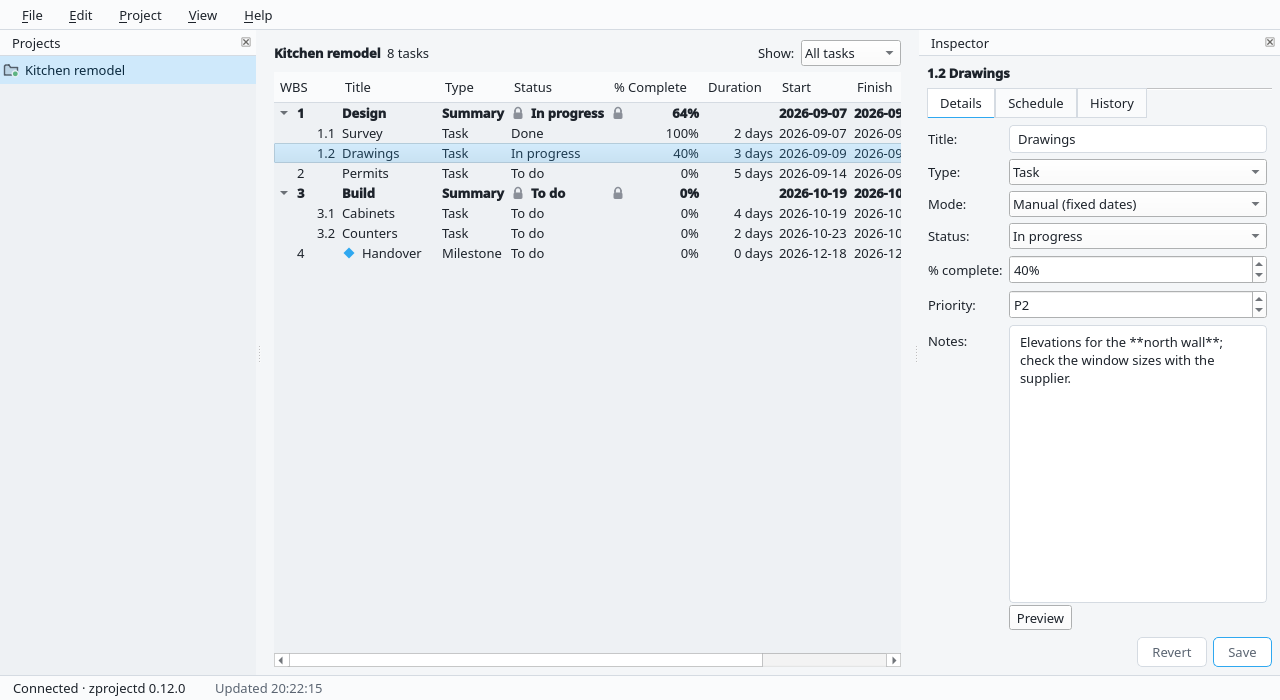
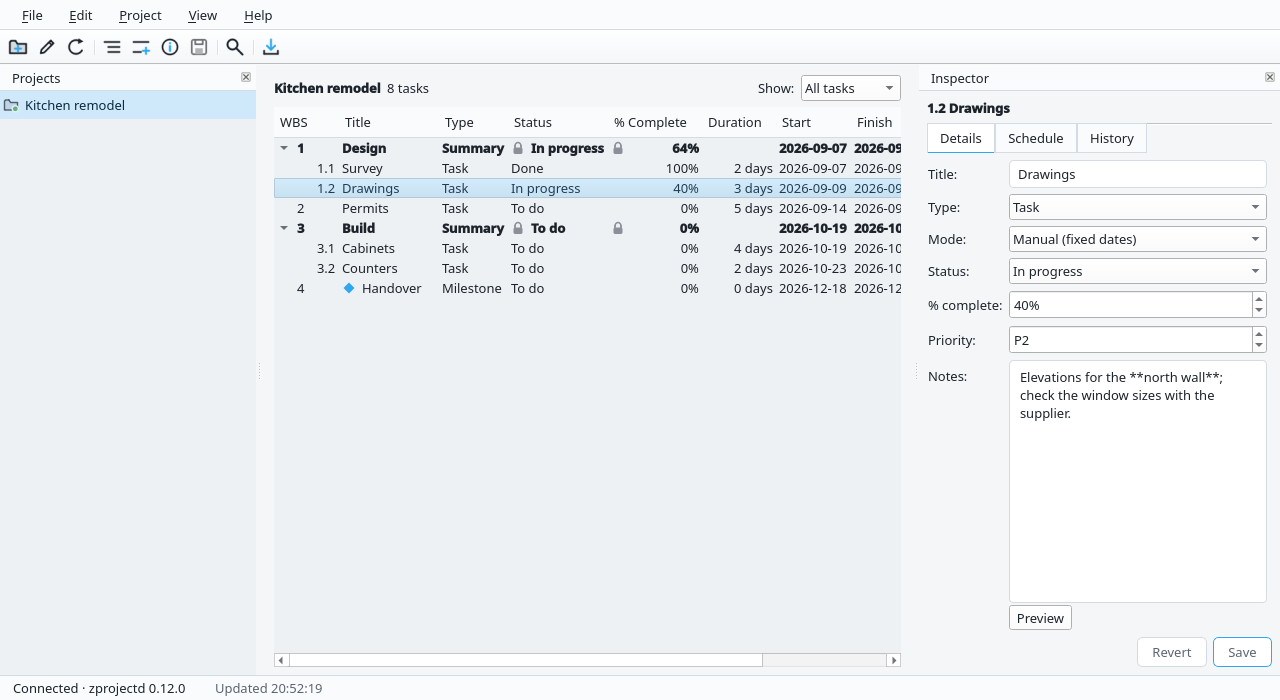
Desktop: menu bar always in the window on Linux, main toolbar
Root cause (vertex: Pop!_OS 24.04, GNOME Shell 46, Qt 6.4.2): a global
menu service (Fildem) owns com.canonical.AppMenu.Registrar on the session
bus, so Qt exported the menus over D-Bus and hid the in-window QMenuBar;
the service showed nothing, so the menus were unreachable.

- Linux: AA_DontUseNativeMenuBar in main.cpp and setNativeMenuBar(false);
  macOS keeps the native menu bar.
- Main toolbar with the app's icons (New Project, Edit Project Details,
  Refresh, Outline, Insert Task, Task Details, Save Task, Find, Check for
  Updates); tooltips name the shortcut.
- View → Show Toolbar, saved as [view] toolbar in zproject.ini.
- Tests, screenshots, help, CHANGELOG, README, SPEC §8.1/§8.4.

diff --git a/app/MainWindow.cpp b/app/MainWindow.cpp
@@ -11,6 +11,7 @@
 #include <QPainter>
 #include <QPixmap>
 #include <QTableWidget>
+#include <QToolBar>
 #include <QToolButton>
 #include <QSpinBox>
 #include <QDockWidget>
@@ -172,6 +173,7 @@ MainWindow::MainWindow(Options options, QWidget* parent) : QMainWindow(parent), 
     updateEditActions();
   });
   buildMenus();
+  buildToolBar();
   buildStatusBar();
   applyAppearance();
 #if QT_VERSION >= QT_VERSION_CHECK(6, 5, 0)
@@ -356,6 +358,12 @@ void MainWindow::buildMenus() {
     return a;
   };
 
+#ifndef Q_OS_MACOS
+  // Always in the window on Linux (main.cpp sets AA_DontUseNativeMenuBar
+  // too): a global-menu service must not take the menus away. macOS keeps
+  // its native menu bar.
+  menuBar()->setNativeMenuBar(false);
+#endif
   QMenu* file = menuBar()->addMenu(tr("&File"));
   add(file, QStringLiteral("actionNewProject"), tr("&New Project…"), [this] { projectActions_->newProject(); });
   file->addSeparator();
@@ -444,6 +452,8 @@ void MainWindow::buildMenus() {
   add(view, QStringLiteral("actionZoomOut"), tr("Zoom &Out"), [this] { zoomOut(); });
   add(view, QStringLiteral("actionZoomReset"), tr("&Actual Size"), [this] { zoomReset(); });
   view->addSeparator();
+  auto* bar = add(view, QStringLiteral("actionToggleToolbar"), tr("Show &Toolbar"), [this](bool on) { setToolbarShown(on); });
+  bar->setCheckable(true);
   auto* side = add(view, QStringLiteral("actionToggleSidebar"), tr("&Sidebar"),
                    [this](bool on) { sidebarDock_->setVisible(on); });
   side->setCheckable(true);
@@ -478,6 +488,55 @@ void MainWindow::buildMenus() {
   updates->setMenuRole(QAction::ApplicationSpecificRole);
   auto* about = add(help, QStringLiteral("actionAbout"), tr("&About zproject"), [this] { showAbout(); });
   about->setMenuRole(QAction::AboutRole);
+}
+
+// The main toolbar (SPEC.md §8.1): the common actions, with the app's icons.
+// View → Show Toolbar toggles it; the choice is kept in zproject.ini.
+void MainWindow::buildToolBar() {
+  toolBar_ = new QToolBar(tr("Toolbar"), this);
+  toolBar_->setObjectName(QStringLiteral("mainToolBar"));
+  toolBar_->setMovable(false);
+  toolBar_->setFloatable(false);
+  toolBar_->setIconSize(QSize(20, 20));
+  toolBar_->setToolButtonStyle(Qt::ToolButtonIconOnly);
+  // Our View menu item is the one toggle (no right-click menu that would
+  // hide it without saving the choice).
+  toolBar_->setContextMenuPolicy(Qt::PreventContextMenu);
+  toolBar_->toggleViewAction()->setVisible(false);
+  const QList<QList<const char*>> groups = {
+      {"actionNewProject", "actionEditProject", "actionRefresh"},
+      {"actionOutline", "actionInsertTask", "actionEditTask", "actionSaveTask"},
+      {"actionFind"},
+      {"actionCheckUpdates"},
+  };
+  for (const auto& group : groups) {
+    if (!toolBar_->actions().isEmpty()) toolBar_->addSeparator();
+    for (const char* name : group) {
+      QAction* a = action(QString::fromLatin1(name));
+      if (a == nullptr) continue;
+      // "&Edit Project Details…" reads "Edit Project Details (Ctrl+E)".
+      QString tip = a->text().remove(QLatin1Char('&')).remove(QChar(0x2026));
+      if (!a->shortcut().isEmpty()) tip += QStringLiteral(" (%1)").arg(a->shortcut().toString(QKeySequence::NativeText));
+      a->setToolTip(tip);
+      toolBar_->addAction(a);
+      if (QWidget* button = toolBar_->widgetForAction(a)) {
+        button->setObjectName(QStringLiteral("toolbar-") + QString::fromLatin1(name));
+        button->setAccessibleName(tip);
+      }
+    }
+  }
+  addToolBar(Qt::TopToolBarArea, toolBar_);
+  toolBar_->setVisible(settings_.showToolbar);
+  QAction* show = action(QStringLiteral("actionToggleToolbar"));
+  show->setChecked(settings_.showToolbar);
+}
+
+void MainWindow::setToolbarShown(bool on) {
+  if (toolBar_ != nullptr) toolBar_->setVisible(on);
+  if (QAction* a = action(QStringLiteral("actionToggleToolbar"))) a->setChecked(on);
+  if (settings_.showToolbar == on) return;
+  settings_.showToolbar = on;
+  saveSettings();
 }
 
 void MainWindow::buildStatusBar() {
@@ -521,6 +580,7 @@ void MainWindow::applyIcons(const ThemeColors& c) {
       {"actionOutline", G::Outline},           {"actionInsertTask", G::InsertTask},
       {"actionEditTask", G::TaskDetails},      {"actionSaveTask", G::SaveTask},
       {"actionDeleteTask", G::DeleteTask},     {"actionFind", G::Find},
+      {"actionCheckUpdates", G::CheckUpdates},
   };
   for (const auto& [name, g] : glyphs) {
     if (QAction* a = action(QString::fromLatin1(name))) a->setIcon(Icons::glyph(g, c));

diff --git a/tests/tst_appshell.cpp b/tests/tst_appshell.cpp
@@ -30,6 +30,7 @@
 #include <QTemporaryDir>
 #include <QTest>
 #include <QTextBrowser>
+#include <QToolBar>
 
 #include <sys/stat.h>
 
@@ -374,6 +375,71 @@ class TestAppShell : public QObject {
     QTest::keyClick(&w, Qt::Key_B, Qt::ControlModifier);
     QVERIFY(w.action(QStringLiteral("actionToggleSidebar"))->isChecked());
     w.close();
+  }
+
+  void menuBarAndToolbar() {
+    {
+      MainWindow w(options(false));
+      w.resize(1100, 640);
+      w.show();
+      QVERIFY(QTest::qWaitForWindowExposed(&w));
+#ifndef Q_OS_MACOS
+      // In the window on Linux, whatever global-menu service the session has.
+      QVERIFY(!w.menuBar()->isNativeMenuBar());
+      QVERIFY(w.menuBar()->isVisible());
+      QVERIFY(w.menuBar()->height() > 0);
+#endif
+      // Help → Check for Updates and View → Outline are in the menus.
+      auto inMenu = [&w](const QString& menu, const QString& name) {
+        for (QAction* m : w.menuBar()->actions()) {
+          if (m->text() == menu && m->menu() != nullptr) return m->menu()->actions().contains(w.action(name));
+        }
+        return false;
+      };
+      QVERIFY(inMenu(QStringLiteral("&Help"), QStringLiteral("actionCheckUpdates")));
+      QVERIFY(inMenu(QStringLiteral("&View"), QStringLiteral("actionOutline")));
+      QVERIFY(inMenu(QStringLiteral("&View"), QStringLiteral("actionToggleToolbar")));
+      // The toolbar: the common actions, each with an icon and a tooltip.
+      QToolBar* bar = w.toolBar();
+      QVERIFY(bar);
+      QVERIFY(bar->isVisible());
+      QStringList names;
+      for (QAction* a : bar->actions()) {
+        if (a->isSeparator()) continue;
+        names << a->objectName();
+        QVERIFY2(!a->icon().isNull(), qPrintable(a->objectName()));
+        QVERIFY2(!a->toolTip().contains(QLatin1Char('&')), qPrintable(a->toolTip()));
+      }
+      QCOMPARE(names, (QStringList{QStringLiteral("actionNewProject"), QStringLiteral("actionEditProject"),
+                                   QStringLiteral("actionRefresh"), QStringLiteral("actionOutline"),
+                                   QStringLiteral("actionInsertTask"), QStringLiteral("actionEditTask"),
+                                   QStringLiteral("actionSaveTask"), QStringLiteral("actionFind"),
+                                   QStringLiteral("actionCheckUpdates")}));
+      QCOMPARE(w.action(QStringLiteral("actionEditProject"))->toolTip(),
+               QStringLiteral("Edit Project Details (%1)")
+                   .arg(QKeySequence(QStringLiteral("Ctrl+E")).toString(QKeySequence::NativeText)));
+      QVERIFY(bar->contextMenuPolicy() == Qt::PreventContextMenu);
+      // View → Show Toolbar hides it and remembers.
+      QAction* toggle = w.action(QStringLiteral("actionToggleToolbar"));
+      QVERIFY(toggle->isCheckable());
+      QVERIFY(toggle->isChecked());
+      toggle->trigger();
+      QVERIFY(!bar->isVisible());
+      QVERIFY(!toggle->isChecked());
+      QVERIFY(!client::loadDesktopSettings(options(false).paths).showToolbar);
+      w.close();
+    }
+    {
+      MainWindow w(options(false));
+      w.show();
+      QVERIFY(QTest::qWaitForWindowExposed(&w));
+      QVERIFY(!w.toolBar()->isVisible());
+      QVERIFY(!w.action(QStringLiteral("actionToggleToolbar"))->isChecked());
+      w.action(QStringLiteral("actionToggleToolbar"))->trigger();
+      QVERIFY(w.toolBar()->isVisible());
+      QVERIFY(client::loadDesktopSettings(options(false).paths).showToolbar);
+      w.close();
+    }
   }
 
   void menusAndShortcutTable() {

diff --git a/app/MainWindow.hpp b/app/MainWindow.hpp
@@ -26,6 +26,7 @@ class QMessageBox;
 class QPushButton;
 class QStackedWidget;
 class QTableWidget;
+class QToolBar;
 class QToolButton;
 
 namespace zproject::app {
@@ -115,6 +116,8 @@ class MainWindow : public QMainWindow {
   // Projects), the details page and the editing actions.
   QTableWidget* projectTable() const { return projectTable_; }
   QToolButton* showClosedButton() const { return showClosed_; }
+  QToolBar* toolBar() const { return toolBar_; }
+  void setToolbarShown(bool on);
   QStackedWidget* mainStack() const { return stack_; }
   QLabel* projectDetails() const { return projectDetails_; }
   ProjectActions* projectActions() const { return projectActions_; }
@@ -140,6 +143,7 @@ class MainWindow : public QMainWindow {
 
  private:
   void buildMenus();
+  void buildToolBar();
   void buildCentral();
   void buildDocks();
   void buildStatusBar();
@@ -184,6 +188,7 @@ class MainWindow : public QMainWindow {
   QLabel* projectSummary_ = nullptr;
   QListWidget* projects_ = nullptr;
   QToolButton* showClosed_ = nullptr;
+  QToolBar* toolBar_ = nullptr;
   QTableWidget* projectTable_ = nullptr;
   QLabel* projectDetails_ = nullptr;
   QPushButton* editButton_ = nullptr;

diff --git a/client/DesktopSettings.cpp b/client/DesktopSettings.cpp
@@ -37,6 +37,7 @@ DesktopSettings loadDesktopSettings(const DesktopPaths& paths) {
   s.zoomPercent = ini.value(QStringLiteral("appearance/zoomPercent"), s.zoomPercent).toInt();
   s.updateCheckDaily = ini.value(QStringLiteral("updates/checkDaily"), s.updateCheckDaily).toBool();
   s.updateAsked = ini.value(QStringLiteral("updates/asked"), s.updateAsked).toBool();
+  s.showToolbar = ini.value(QStringLiteral("view/toolbar"), s.showToolbar).toBool();
   return s;
 }
 
@@ -56,6 +57,7 @@ Status saveDesktopSettings(const DesktopPaths& paths, const DesktopSettings& set
     ini.setValue(QStringLiteral("appearance/zoomPercent"), settings.zoomPercent);
     ini.setValue(QStringLiteral("updates/checkDaily"), settings.updateCheckDaily);
     ini.setValue(QStringLiteral("updates/asked"), settings.updateAsked);
+    ini.setValue(QStringLiteral("view/toolbar"), settings.showToolbar);
     ini.sync();
     if (ini.status() != QSettings::NoError) {
       return Error{QStringLiteral("io"), QStringLiteral("cannot write %1").arg(paths.settingsFile), {}};

diff --git a/app/Icons.cpp b/app/Icons.cpp
@@ -169,6 +169,18 @@ QIcon glyph(Glyph g, const ThemeColors& c) {
         p.setBrush(accent);
         p.drawRect(QRectF(5, 9, 6, 4.8));
         break;
+      case Glyph::CheckUpdates: {
+        p.setPen(pen(fg));
+        p.setBrush(Qt::NoBrush);
+        p.drawLine(QPointF(2.5, 11), QPointF(2.5, 13.5));
+        p.drawLine(QPointF(2.5, 13.5), QPointF(13.5, 13.5));
+        p.drawLine(QPointF(13.5, 13.5), QPointF(13.5, 11));
+        p.setPen(pen(accent, 1.6));
+        p.drawLine(QPointF(8, 2), QPointF(8, 10));
+        p.drawLine(QPointF(4.8, 7), QPointF(8, 10.2));
+        p.drawLine(QPointF(11.2, 7), QPointF(8, 10.2));
+        break;
+      }
       case Glyph::Find:
         p.setPen(pen(fg, 1.6));
         p.setBrush(Qt::NoBrush);

diff --git a/app/main.cpp b/app/main.cpp
@@ -25,6 +25,13 @@ int main(int argc, char* argv[]) {
   }
 
   Q_INIT_RESOURCE(zproject_app);
+#ifndef Q_OS_MACOS
+  // Menus stay in the window on Linux. A global-menu service on the session
+  // bus (com.canonical.AppMenu.Registrar, e.g. Fildem or an appmenu applet)
+  // otherwise makes Qt export them over D-Bus and hide the in-window bar,
+  // and if that service shows nothing the menus are gone (SPEC.md §8.1).
+  QApplication::setAttribute(Qt::AA_DontUseNativeMenuBar);
+#endif
   QApplication app(argc, argv);
   QApplication::setApplicationName(QStringLiteral("zproject"));
   QApplication::setApplicationVersion(zproject::appVersion());

diff --git a/tests/tst_clientcore.cpp b/tests/tst_clientcore.cpp
@@ -262,6 +262,10 @@ class TestClientCore : public QObject {
     const DesktopSettings back = loadDesktopSettings(p);
     QCOMPARE(back.serverUrl, s.serverUrl);
     QVERIFY(!back.cacheEnabled);
+    QVERIFY(back.showToolbar);
+    s.showToolbar = false;
+    QVERIFY(saveDesktopSettings(p, s).ok());
+    QVERIFY(!loadDesktopSettings(p).showToolbar);
     QFile f(p.settingsFile);
     QVERIFY(f.open(QIODevice::ReadOnly));
     QVERIFY(!f.readAll().contains("zpt_"));

diff --git a/client/DesktopSettings.hpp b/client/DesktopSettings.hpp
@@ -34,6 +34,7 @@ struct DesktopSettings {
   int zoomPercent = 100;      // UI text zoom (View → Zoom)
   bool updateCheckDaily = true;  // the updater's daily check (SPEC.md §21)
   bool updateAsked = false;      // asked about it on first run
+  bool showToolbar = true;       // View → Show Toolbar
 };
 DesktopSettings loadDesktopSettings(const DesktopPaths& paths);
 // Writes zproject.ini, mode 0600 in a 0700 directory. Never a token.

diff --git a/app/Icons.hpp b/app/Icons.hpp
@@ -25,6 +25,7 @@ enum class Glyph {
   SaveTask,
   DeleteTask,
   Find,
+  CheckUpdates,
 };
 
 QIcon glyph(Glyph g, const ThemeColors& c);

diff --git a/CHANGELOG.md b/CHANGELOG.md
@@ -39,6 +39,17 @@ Selecting a task in the outline opens it for editing in the inspector.
   same on Linux (no dependence on the system icon theme) and macOS.
 - Read-only tokens and offline mode show the editor read-only, with the
   reason.
+- **Menu bar always in the window on Linux.** A global-menu service on the
+  session bus (`com.canonical.AppMenu.Registrar`, e.g. Fildem on GNOME) made
+  Qt hand the menus to it and hide the window's menu bar; when that service
+  shows nothing, File, Edit, View, Project and Help were unreachable. The
+  app now sets `AA_DontUseNativeMenuBar` and a non-native menu bar on Linux;
+  macOS keeps its native menu bar.
+- **Toolbar** with the common actions (New Project, Edit Project Details,
+  Refresh, Outline, Insert Task, Task Details, Save Task, Find, Check for
+  Updates) in the app's icons, with tooltips naming the shortcut. **View →
+  Show Toolbar** toggles it; the choice is saved (`[view] toolbar` in
+  `zproject.ini`).
 
 ## 0.11.0 — 2026-11-22
 

diff --git a/README.md b/README.md
@@ -38,8 +38,9 @@ keyboard, filter by status and find. The inspector edits the selected task
 (Details, Schedule and History tabs; Alt + Enter, Ctrl + S): fields are
 checked before anything is sent, changes that ripple into summaries are
 previewed, and a save that crosses someone else's edit asks field by field.
-The project sidebar and the menus use zproject's own icons (a folder per
-project with its RAG colour), drawn the same on every platform.
+The project sidebar, the menus and the toolbar (View → Show Toolbar) use
+zproject's own icons (a folder per project with its RAG colour), drawn the
+same on every platform; on Linux the menu bar always stays in the window.
 **Help → Check for Updates…** installs new desktop releases after checking
 their minisign signature and SHA-256 (SPEC.md §21); it never touches
 `zprojectd`.
